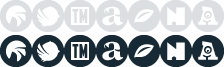
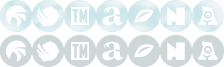
black !

diff --git a/pages/gallerystyle.css b/pages/gallerystyle.css
@@ -3,9 +3,11 @@ div.lan div{
 	opacity     : 0.9;
 	margin-right: 5px;
 	margin-top  : 5px;
+		-webkit-transform:scale(1.5);
+
 }
 div.lan div a{
-	color          : white;
+	color          : #1ccbd6;
 	display        : block;
 	padding        : 7px 5px 3px;
 	font-size      : 14px;
@@ -17,7 +19,6 @@ div.lan div a{
 
 }
 div.lan div :hover{
-	-webkit-transform:scale(1.1);
 	color          : darkcyan;
 }
 /*--------------font-------------------*/
@@ -43,11 +44,10 @@ body{
 	font-family           : 'Nazanin', Arial, sans-serif;
 	-webkit-font-smoothing: antialiased;
 	background-image      : url('../images/1.png');
-	background-size       : cover;
 }
 /*--------------logo-------------------*/
 header div.logo{
-	background-image :url('../images/logo.png');
+	background-image : url('../images/logo.png');
 	background-repeat: no-repeat;
 }
 /*--------------menu-------------------*/
@@ -57,7 +57,7 @@ header div.upmenu nav menu{
 header div.upmenu nav menu li{
 	float             : right;
 	position          : relative;
-	margin-right      : 3px;
+	margin-right      : 5px;
 	-webkit-transition: all 300ms;
 	-moz-transition   : top 200ms;
 	-ms-transition    : top 200ms;
@@ -71,7 +71,7 @@ nav li:hover {
 	text-shadow: 1px 0px 1px #78c8dc;
 }
 header nav a {
-	color          : white;
+	color          : #1ccbd6;
 	display        : block;
 	padding        : 5px 7px 5px;
 	font-size      : 20px;
@@ -80,14 +80,11 @@ header nav a {
 	text-decoration: none;
 	white-space    : nowrap;
 	direction      : rtl;
+		-webkit-transform :scale(1.2);
+
 }
 header nav a:hover{
 	color             : darkcyan;
-	-webkit-transform :scale(1.1);
-	-webkit-transition: all 150ms;
-	-moz-transition   : top 150ms;
-	-ms-transition    : top 150ms;
-	-o-transition     : top 150ms;
 }
 div.menuline{
 	width             : inherit;
@@ -127,43 +124,35 @@ menu.flt{
 	background-repeat: no-repeat;
 
 }
-menu.flt :hover{
-	background-image  : url('../images/ax-gallery.png');
+menu.flt li:hover{
+	background-image  : url('../images/borde-hover.png');
 	background-repeat : no-repeat;
+	-webkit-transform : scale(0.95); 
 
-}
+	}
 menu.flt li{
 	float: left;
+	-webkit-transition: all 800ms ease-out;
+	-moz-transition   : all 2s ease-out;
+	-ms-transition    : all 2s ease-out;
+	-o-transition     : all 2s ease-out;
+	transition        : all 2s ease-out;
 }
+
 /*--------------lightbox-------------------*/
 div.gallery li {
 	float       : left;
 	margin-right: 15px;
 	margin-top  : 10px;
+
 }
 div.gallery li :hover{
-	-webkit-transform : scale(0.95); 
-	-webkit-transition: all 2s;
-	-moz-transition   : all 2s;
-	-ms-transition    : all 2s;
-	-o-transition     : all 2s;
-	transition        : all 2s;
+
+
 }
 
 div.gallery li a {
 	display: block;
-}
-/*--------------noise-------------------*/
-.noise{
[1 lines of base64/hex data omitted]
-	background-repeat  : repeat;
-	background-position: left top;
-	bottom             : 0;
-	top                : 0;
-	right              : 0;
-	left               : 0;
-	position           : fixed;
-	z-index            :-1;
 }
 /*--------------copyright -------------------*/
 

diff --git a/style.css b/style.css
@@ -3,7 +3,8 @@ div.lan div{
 	background-color: gray;
 	opacity: .9;
 	border: 1px solid white;
-	border-radius: 20px;
+	border-radius: 25px;
+	margin-left: 3px;
 }
 div.lan div a{
 	color          : white;
@@ -42,13 +43,14 @@ div.lan div :hover{
 body{
 	font-family: 'Nazanin', Arial, sans-serif;
 	-webkit-font-smoothing : antialiased;
-	background-image: url('images/bg1.jpg');
-	background-repeat:repeat-x;
+	background-image: url('images/bg1.png');
+	background-repeat:repeat;
 }
 /*--------------logo-------------------*/
 header div.logo{
 	background-image : url('images/logo.png');
 	background-repeat: no-repeat;
+	height: 55px;
 }
 /*--------------menu-------------------*/
 header div.upmenu nav menu{
@@ -74,7 +76,7 @@ nav li:hover {
 	text-shadow: 1px 0px 1px #78c8dc;
 }
 header nav a {
-	color          : black;
+	color          : white;
 	display        : block;
 	padding        : 5px 7px 5px;
 	font-size      : 20px;
@@ -188,12 +190,11 @@ section.slideshow menu{
 section.slideshow menu li{
 	float        : right;
 	width        : 32px;
-	border-radius: 6px;
-	opacity      : 0.95;
+	border-radius: 25px;
+	opacity      : 0.25;
 	cursor       : pointer;
 	height       : 33px;
 	margin-left  : 5px;
-
 }
 section.slideshow menu li:hover{
 	opacity: 1;
@@ -240,7 +241,7 @@ div.boxes{
 	margin-top: -90px;
 }
 div.boxes ul li{
-	opacity           : 0.9;
+	opacity           : 0.94;
 	height        : 130px;
 	z-index           : +2;
 	position          : relative;
@@ -326,7 +327,7 @@ div.boxes ul li a p{
 }
 /*--------------textpanel in content -------------------*/
 div.content .textpanel h4{
-	color      : black;
+	color      : white;
 	font-family: 'nazanin', Arial, sans-serif;
 	font-size  : 20px;
 	text-align : center;
@@ -348,13 +349,13 @@ div.content .textpanel p{
 	z-index            :-1;
 }
 .picslide h4{
-	color      : black;
+	color      : white;
 	font-family: 'nazanin', Arial, sans-serif;
 	font-size  : 20px;
 	text-align : right;
 }
 p{
-	color      :black;
+	color      :#78c8dc;
 	text-align : right;
 	line-height: 25px;
 }
@@ -364,7 +365,7 @@ p{
 	text-align : right;
 }
 .leftpanelc h4{
-	color      : black;
+	color      : white;
 	font-family: 'nazanin', Arial, sans-serif;
 	font-size  : 20px;
 	text-align : center;
@@ -381,4 +382,11 @@ footer div.copyright h3{
 	direction      :rtl;
 	text-align     : center;
 	font-family    : 'davat', Arial, sans-serif;
+}
+div.underhed p{
+	color: white;
+	opacity: .4;
+}
+* hr{
+	opacity: .4;
 }

diff --git a/index.html b/index.html
@@ -10,7 +10,7 @@
 <body>
 	<div class="container cover">
 		<header>
-			<div class="left w4 mh7 cover logo"></div>
+			<div class="left w4 mh4 cover logo"></div>
 			<div class="w2 mh6 right last cover languege">
 				<div class="mt2 lan">
 					<div class="left farsi"><a href="#">fa</a></div>
@@ -27,8 +27,9 @@
 					</menu>
 				</nav>
 			</div>
+			<div class="w24 underhed overhide"><p>....................................................................................................................................................................................................................................................................................................................................................................................................................................................................................................................................................................................................................................................................................................................................................................................................................................................................................................................................</p></div>
 		</header>
-		<div class="mt7 content">
+		<div class="content">
 			<div class="step1" id="anihelper">
 				<section class="rel w24 slideshow">
 					<ul class="train">
